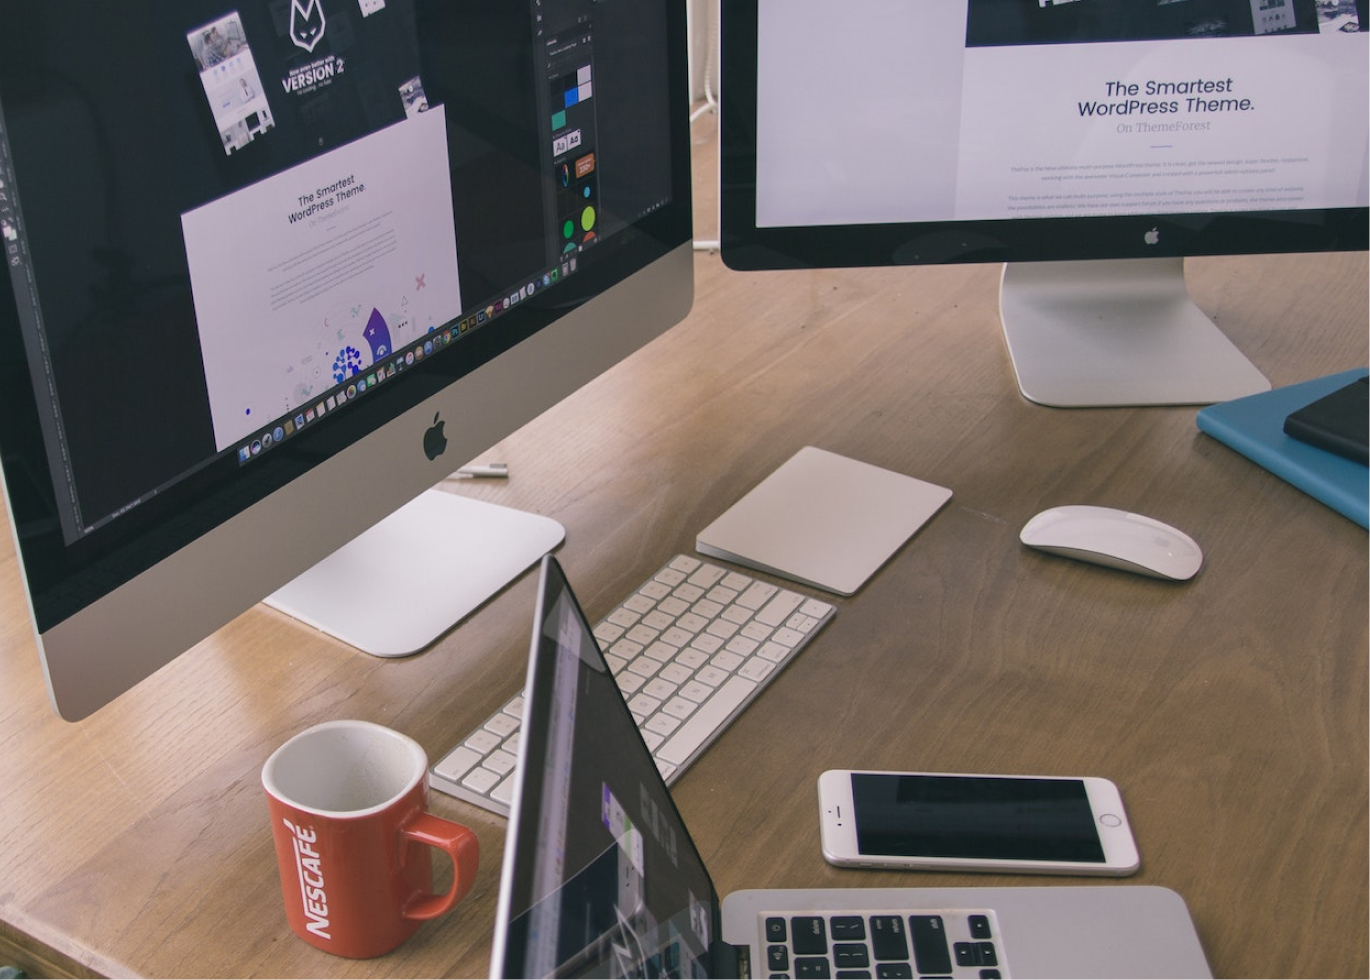
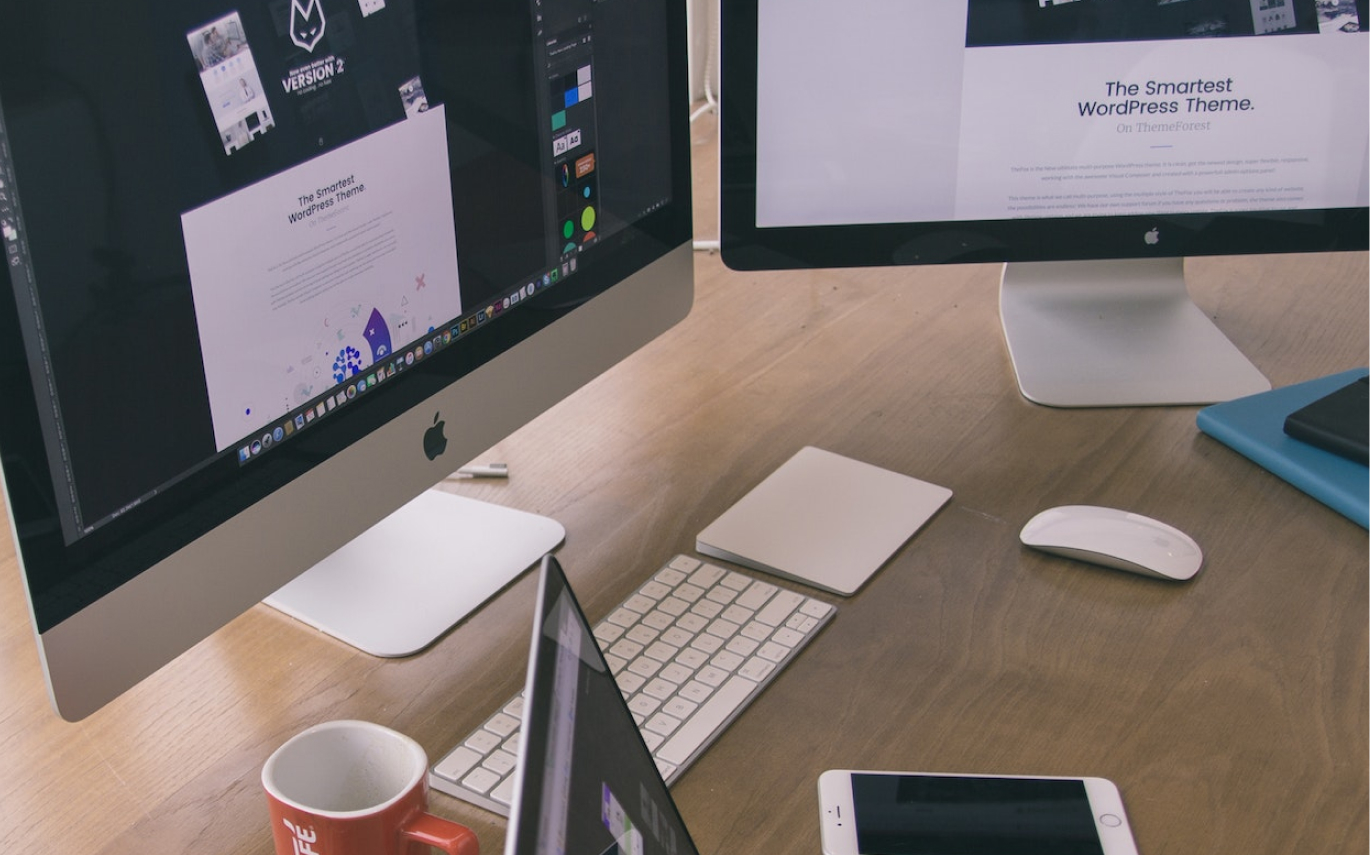
mission copy photo

diff --git a/app/servizi/social-media/page.jsx b/app/servizi/social-media/page.jsx
@@ -62,7 +62,7 @@ export default function Page(){
                             'Il tuo profilo diventerà un profilo di impatto, chiaro, unico e ordinato, creato per attrarre nuovi Clienti.',
                             'Non dovrai più sperare in un passaparola incerto e non misurabile, ma potrai basare le tue valutazioni su risultati (dati) certi e misurabili.' */
                         ]}
-                        img={'/img/services/social-media/2.jpeg'}
+                        img={'/img/services/social-media/2.jpg'}
                         align='img-right'
                     />
 
@@ -76,7 +76,7 @@ export default function Page(){
                             'Uniamo la creatività e la professionalità per raggiungere veri risultati.',
                             'E potremmo aggiungere moltissime altre cose, ma ci piace far parlare i risultati, da qui si capisce la nostra passione e dedizione.' */
                         ]}
-                        img={'/img/services/social-media/3.jpeg'}
+                        img={'/img/services/social-media/3.jpg'}
                         align='img-left'
                     />
 
